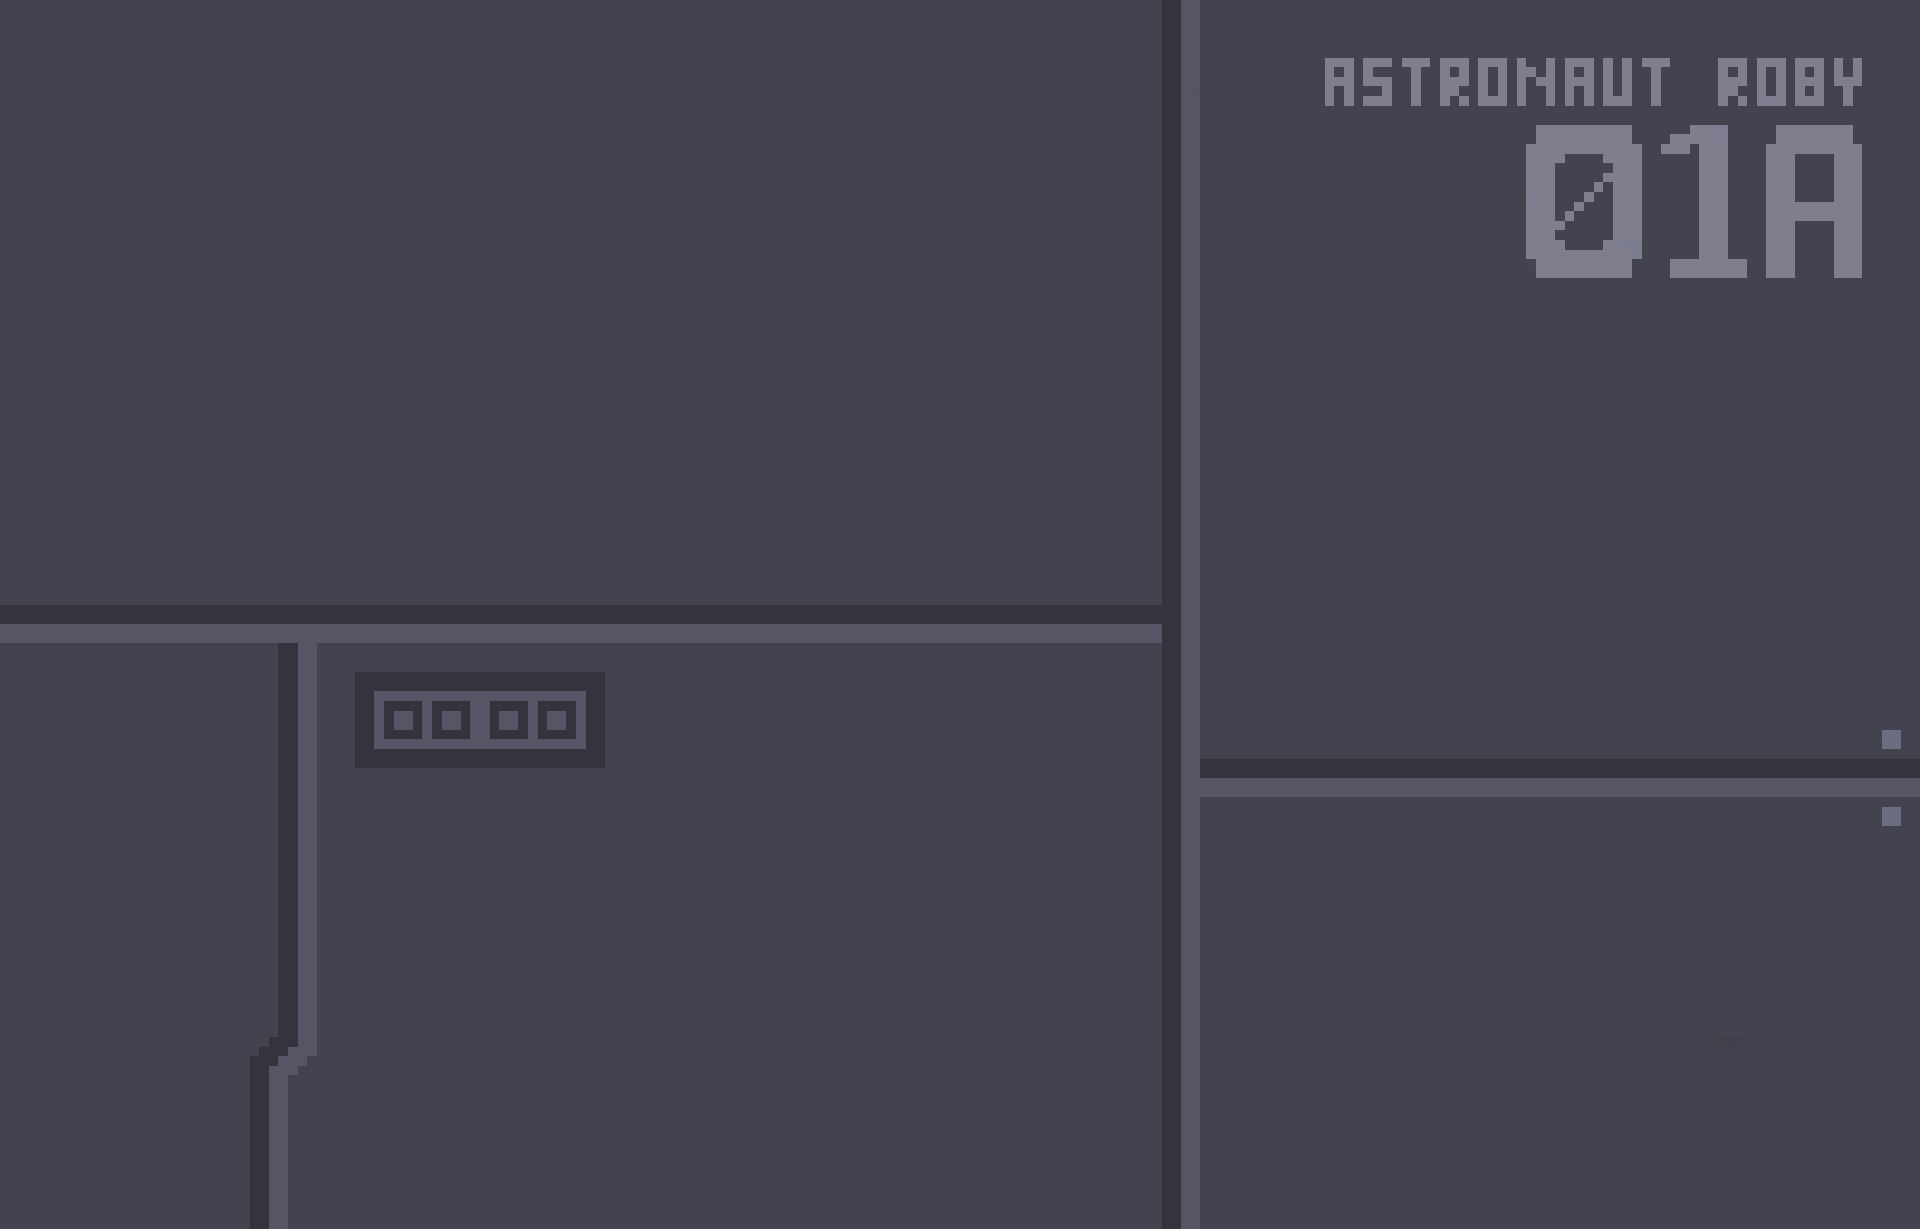
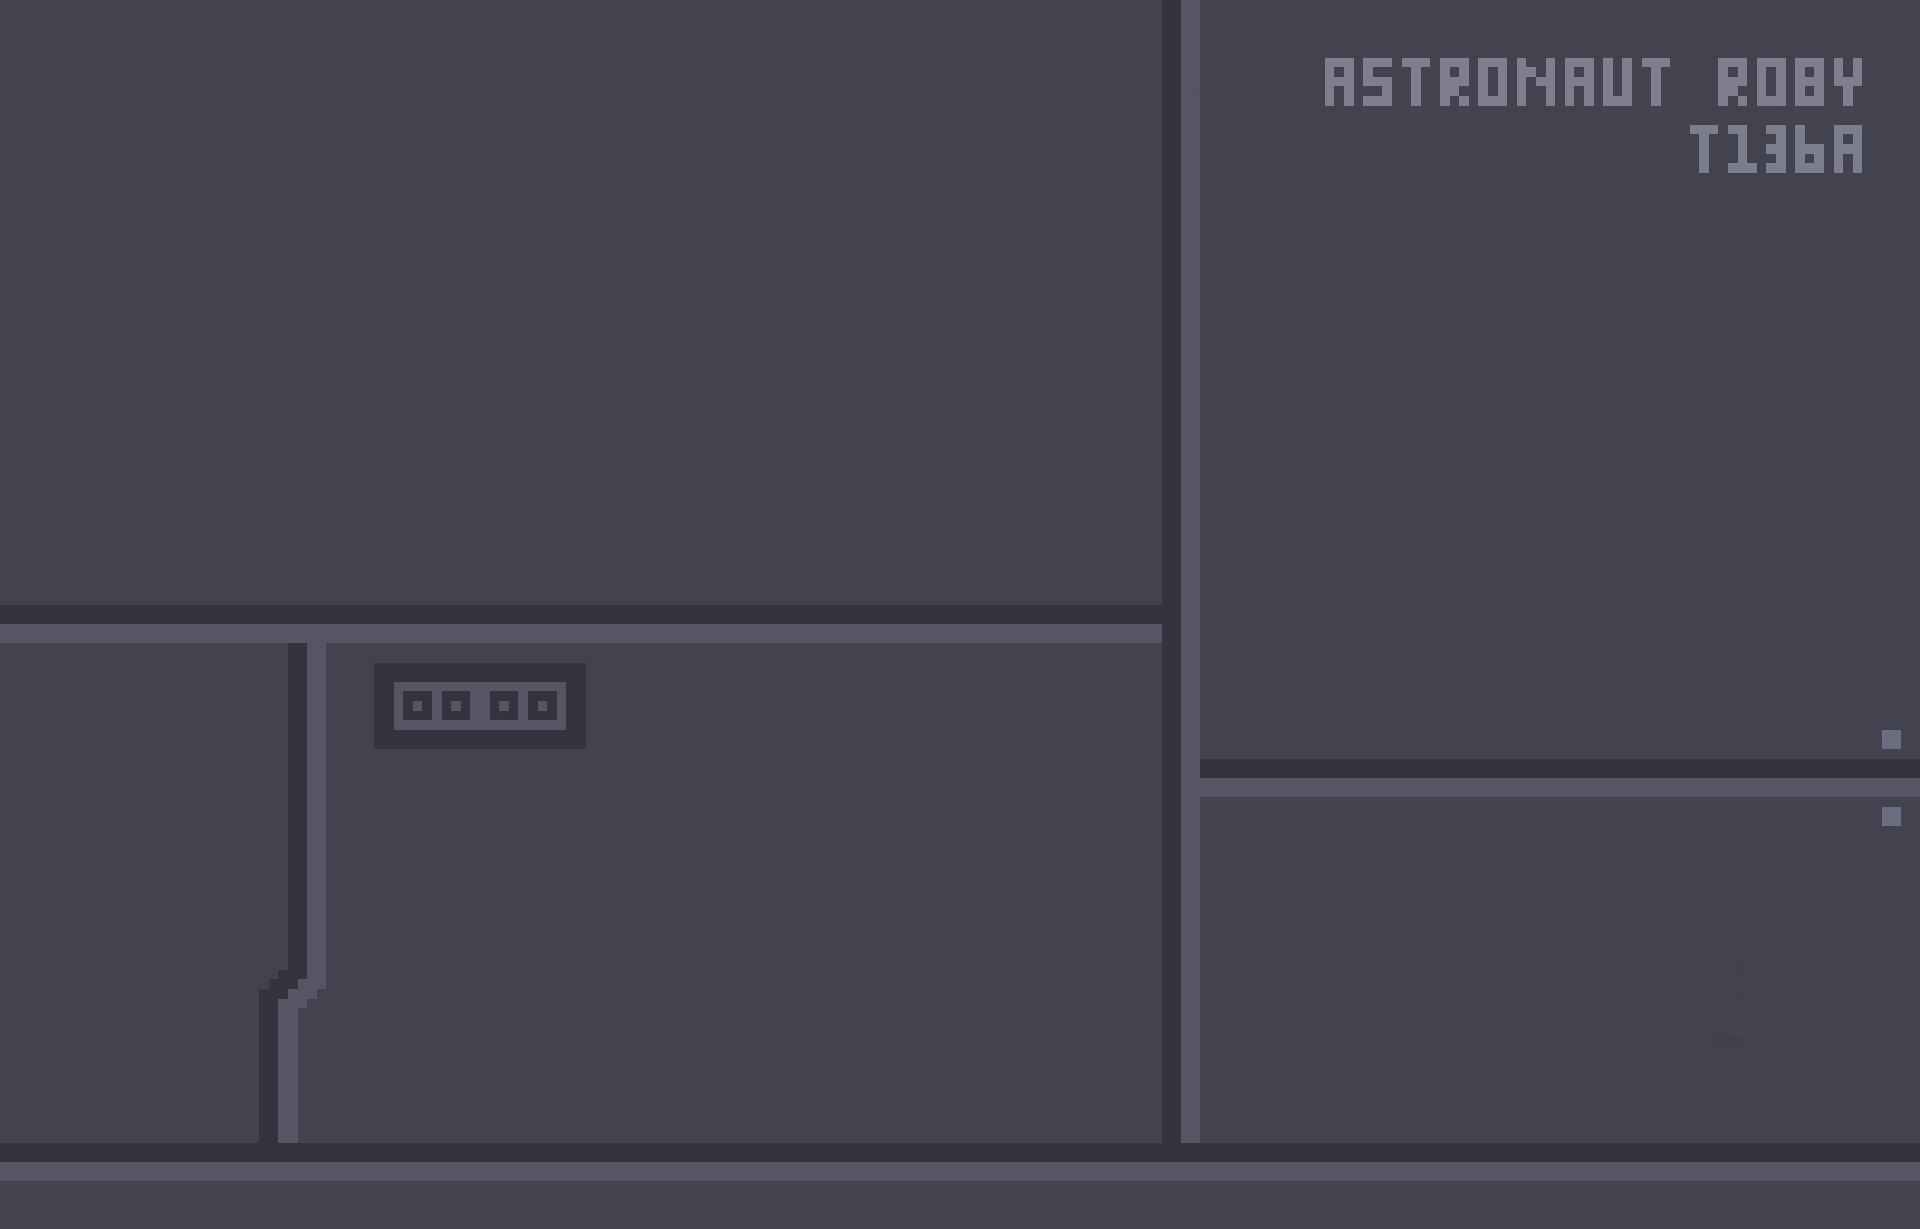
feat: add roby smiling image to the final quiz success state

diff --git a/resources/js/components/QuizzCobrand.vue b/resources/js/components/QuizzCobrand.vue
@@ -160,25 +160,34 @@
         </a>
       </div>
 
-      <div class="mt-12 md:mt-24 max-w-2xl flex-grow flex flex-col justify-center">
-        <div class="border-[2px] border-black shadow-[6px_6px_0px_0px_rgba(0,0,0,1)] md:shadow-[8px_8px_0px_0px_rgba(0,0,0,1)] p-5 md:p-8" :style="boxStyle">
-          <h2 class="font-jersey text-[32px] sm:text-[36px] md:text-[64px] text-inherit leading-tight mb-1 md:mb-2">
-            On vous attend !
-          </h2>
-          <h3 class="font-jersey text-[24px] sm:text-[28px] md:text-[40px] text-inherit leading-tight mb-4 md:mb-8">
-            plus qu'une étape
-          </h3>
+      <div class="mt-2 md:mt-8 flex-grow flex flex-col-reverse md:flex-row justify-between items-center relative gap-4 md:gap-12 pb-2 md:pb-4">
+        
+        <div class="max-w-2xl flex flex-col justify-center relative z-10 w-full md:w-1/2">
+          <div class="border-[2px] border-black shadow-[6px_6px_0px_0px_rgba(0,0,0,1)] md:shadow-[8px_8px_0px_0px_rgba(0,0,0,1)] p-5 md:p-8" :style="boxStyle">
+            <h2 class="font-jersey text-[32px] sm:text-[36px] md:text-[64px] text-inherit leading-tight mb-1 md:mb-2">
+              On vous attend !
+            </h2>
+            <h3 class="font-jersey text-[24px] sm:text-[28px] md:text-[40px] text-inherit leading-tight mb-4 md:mb-8">
+              plus qu'une étape
+            </h3>
 
-          <p class="font-inter text-inherit text-sm md:text-lg leading-relaxed mb-8 md:mb-12">
-            La prise de rendez-vous se fait via OneDoc. Vous allez être redirigé vers le calendrier de la collecte {{ company.name || '[entreprise]' }}. Choisissez simplement le créneau qui vous convient et confirmez votre inscription.
-          </p>
+            <p class="font-inter text-inherit text-sm md:text-lg leading-relaxed mb-8 md:mb-12">
+              La prise de rendez-vous se fait via OneDoc. Vous allez être redirigé vers le calendrier de la collecte {{ company.name || '[entreprise]' }}. Choisissez simplement le créneau qui vous convient et confirmez votre inscription.
+            </p>
 
-          <div>
-            <a href="#" @click.prevent="handleOnedocClick" class="inline-block border-[2px] border-black shadow-[3px_3px_0px_0px_rgba(0,0,0,1)] md:shadow-[4px_4px_0px_0px_rgba(0,0,0,1)] hover:shadow-[1px_1px_0px_0px_rgba(0,0,0,1)] md:hover:shadow-[2px_2px_0px_0px_rgba(0,0,0,1)] hover:translate-y-[2px] px-5 md:px-8 py-2 md:py-4 font-inter text-sm md:text-lg transition-all" :style="activeBtnStyle">
-              Prendre rendez-vous
-            </a>
+            <div>
+              <a href="#" @click.prevent="handleOnedocClick" class="inline-block border-[2px] border-black shadow-[3px_3px_0px_0px_rgba(0,0,0,1)] md:shadow-[4px_4px_0px_0px_rgba(0,0,0,1)] hover:shadow-[1px_1px_0px_0px_rgba(0,0,0,1)] md:hover:shadow-[2px_2px_0px_0px_rgba(0,0,0,1)] hover:translate-y-[2px] px-5 md:px-8 py-2 md:py-4 font-inter text-sm md:text-lg transition-all" :style="activeBtnStyle">
+                Prendre rendez-vous
+              </a>
+            </div>
           </div>
         </div>
+
+        <!-- Image (Roby) -->
+        <div class="w-full md:w-1/2 flex justify-end flex-col items-center relative z-0 md:z-10 md:-translate-x-12 h-full min-h-[25vh] max-h-[35vh] md:min-h-0 md:max-h-[75vh]">
+          <img src="/images/roby_smiling_left.png" alt="Roby Souriant" class="absolute bottom-0 left-0 right-0 mx-auto object-contain md:inset-0 md:m-auto max-h-[30vh] md:max-h-[75vh]" />
+        </div>
+
       </div>
     </div>
   </div>
